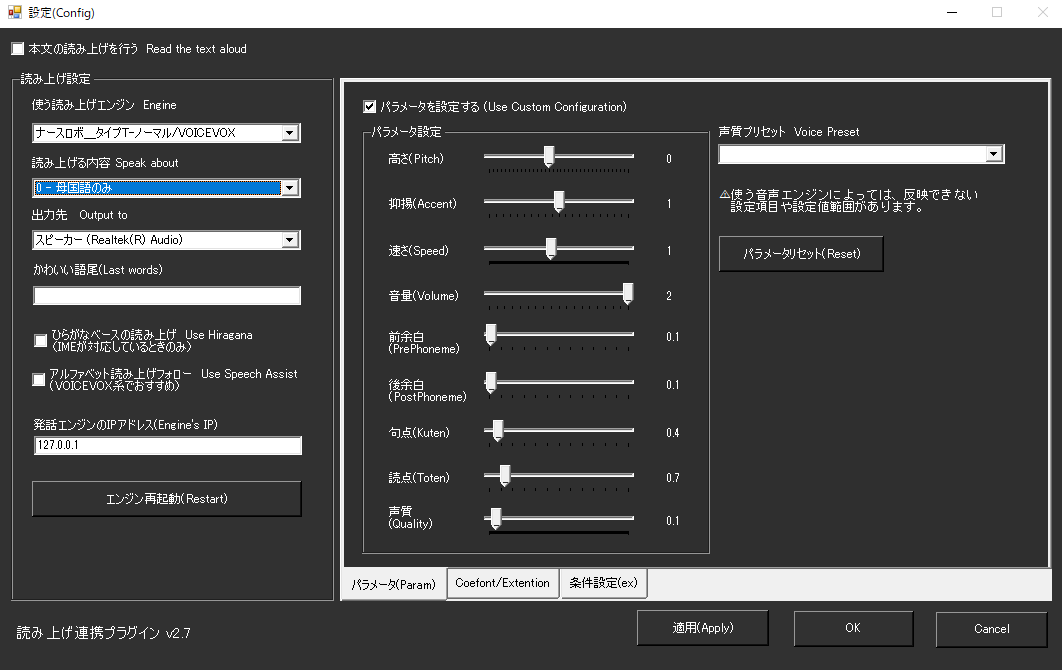
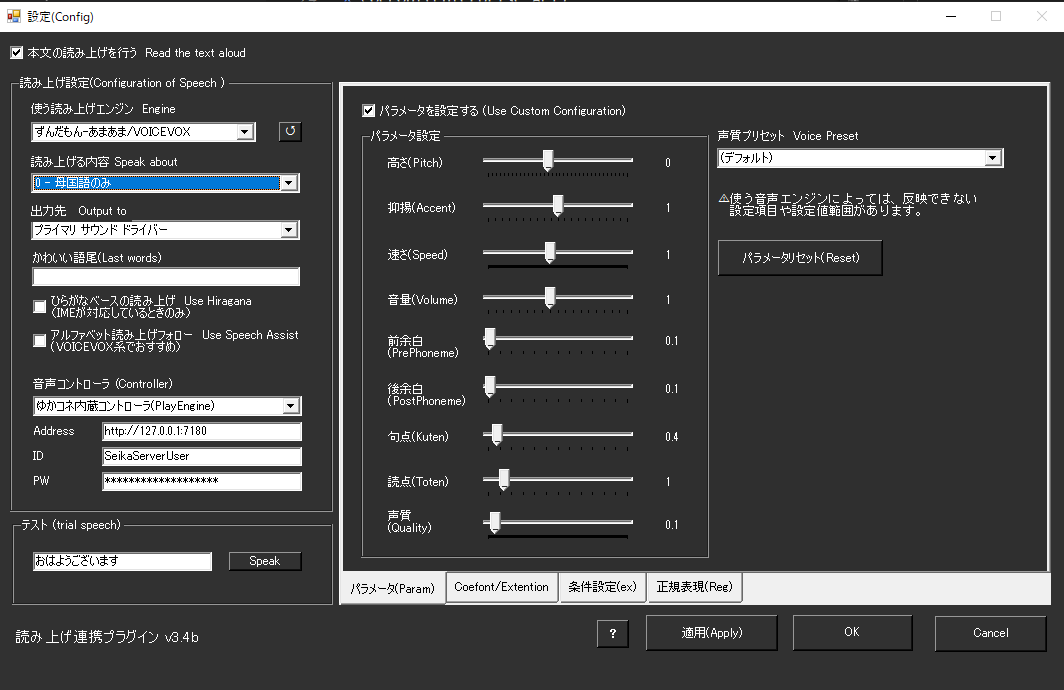
読み上げプラグイン周りのドキュメント更新

diff --git a/docs/plugin/plugin_playvoice.md b/docs/plugin/plugin_playvoice.md
@@ -3,6 +3,11 @@
     * 音声ソフトウェアが正しく発声できる状態であること
     * つかう音声ソフトウェアが立ち上がっていること
 
+!!! Warning "関連ツールについて"
+    * RecotteStudio プラグイン、AssistantSeika、各音源と連携できるように設計しています
+    * 連携部分については仕様を参考に実装しています
+    * うまくいかない件は各製作者様に直接問い合わせせず、Discordサポートｃｈでご質問ください
+
 ## このプラグインで出来ること
 
 * 各種音声生成ソフトウェアをつかって音声認識結果を読み上げできます。
@@ -42,6 +47,7 @@
 |かわいい語尾補正|認識した言葉の最後につける言葉を指定します|
 |ひらがなベースで読み上げ|・IME辞書をつかって漢字をすべてひらがなに変換して渡します。<br>・UDトーク併用時は認識時のひらがなに直します|
 |アルファベット読み上げ|・英語が読めない音源では、それっぽい発音に置き換えます。<br>正しく発音できないこともあります|
+|音声コントローラ|使用する音声コントローラを選べます。<br>・外部のコントローラとして、[AssistantSeika](https://hgotoh.jp/wiki/doku.php/documents/voiceroid/assistantseika/assistantseika-001a)が利用できます。<br>・外部コントローラを使う場合は、URL、ID、PassWordの設定を合わせてください<br>・AssistantSeika連携：（ゆかコネNEO v2.0.115以降）|
 |CoeFontの設定| CoeFontの仕様変更により、<br>```残念ながらCoeFont社の仕様変更によりCoeFont企業契約者以外はご利用いただけなくなりました```|
 |パラメータを設定|発話に関する調整をします。音源によっては反映できない項目もあります|
 
@@ -68,6 +74,10 @@
 
 !!! Warning  "音源を標準のフォルダ以外に導入すると動かない場合があります"
     * A.I.Voiceなどは、インストールフォルダを変更すると連動できないことがあります。
+
+!!! Info "音声パラメータについて"
+    * 初期値として、デフォルトで使用される音源の設定値を採用します
+    * 途中で音声を切り替える場合は、パラメータ不一致が起きる可能性があります。設定項目で値を設定してください。
 
 ## 条件変更
 
@@ -114,6 +124,7 @@
 
 * 従来通り、ブラウザがサポートする機械音声を使うことができます。
 * ブラウザを起動して音声を選ぶと、ブラウザ経由で声が再生されます。
+* 内蔵コントローラ使用中のみ利用可能です。
 ![音声](images/plugin_playvoice_p3.png)
 
 ## 読み上げしている文章の取り込み
@@ -122,4 +133,23 @@
 * OBS Studio のテキストソースで参照することで、リアルタイム表示ができます。
 ![音声](images/plugin_playvoice_p4.png)
 
+## RecotteStudioプラグイン連携
 
+* RecotteStudioプラグインを使って発話ができます。
+* このモードは、ゆかコネ内蔵コントローラの時のみ使用可能です。
+* たとえば、[りんなプラグイン](https://vtool.booth.pm/items/4591912)などを連携させて使うことが可能です。
+![音声](images/plugin_playvoice_p6.png)
+
+## 一括置換
+
+* TwiChaDashに搭載されていた機能です
+* インストールフォルダに サンプルとして、``bsr.txt``があります。
+* 正規表現ページにフォーマットを作成するためのツールが用意されています
+
+![音声](images/plugin_playvoice_p7.png)
+
+## コントローラ設定
+
+* 内蔵コントローラの通信先や再起動指示を出せる枠になります
+
+![音声](images/plugin_playvoice_p8.png)

diff --git a/docs/plugin/plugin_slackwebhook.md b/docs/plugin/plugin_slackwebhook.md
@@ -1,0 +1,43 @@
+!!! Info "前提条件"
+    * Webhook URL登録するためには Slack アカウントが必要です
+    * プラグインは v2.0.115から同梱されています
+
+## このプラグインで出来ること
+
+* 音声認識結果をSlackチャットチャネル転送することができます
+
+##　有効化
+
+![slack](images/plugin_slackwebhook_p1.png)
+
+* プラグインを使うチェックをONにしてください。
+
+## 設定
+
+![slack](images/plugin_slackwebhook_p2.png)
+
+|設定|意味|
+|:--|:---|
+|Webhook URL|WebHookのアドレスを入れます。|
+
+## 具体的な使い方
+
+* まず、Slackクライアントから管理画面をだします
+
+![slack](images/plugin_slackwebhook_p3.png)
+
+* Slackアプリとして、Incomming Webhookを追加します
+
+![slack](images/plugin_slackwebhook_p4.png)
+
+* 書き込み先ｃｈを設定します
+
+![slack](images/plugin_slackwebhook_p5.png)
+
+* URLが発行されます。このアドレスをゆかりねっとコネクターNEOに設定します。
+
+![slack](images/plugin_slackwebhook_p6.png)
+
+* 認識が終わるごとに、転送されます。
+
+![slack](images/plugin_slackwebhook_p7.png)
